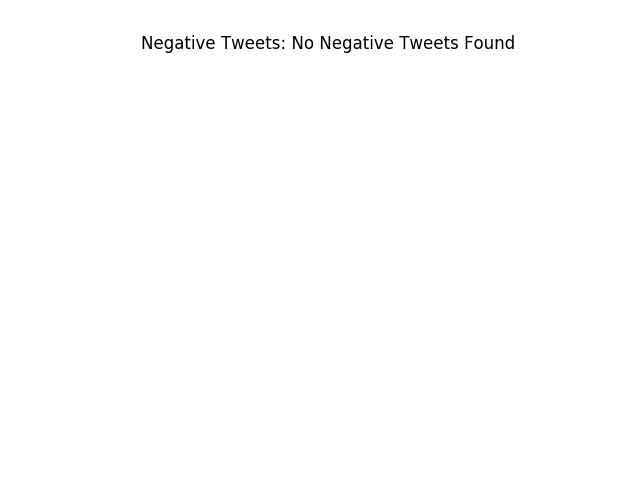
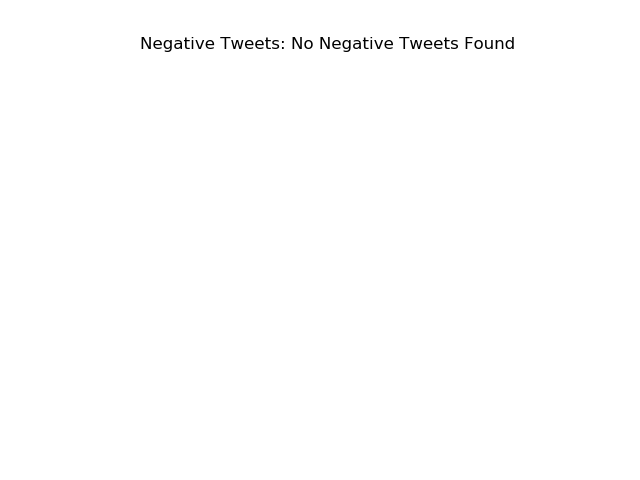
Transfer GT_Website branch to here. comment wordcount line

Changed region(s): [[0.2188, 0.0625, 0.75, 0.125], [0.7812, 0.0625, 0.8125, 0.0938]]

diff --git a/templates/render_Data.html b/templates/render_Data.html
@@ -9,10 +9,30 @@
   <script src="https://maxcdn.bootstrapcdn.com/bootstrap/3.3.7/js/bootstrap.min.js"></script>
   <link rel="stylesheet" type="text/css" href="healthmsgu.css">
   <link rel="stylesheet" href="https://www.w3schools.com/w3css/4/w3.css">
-  
+  <style>
+  #myBtn {
+  display: none;
+  position: fixed;
+  bottom: 20px;
+  right: 30px;
+  z-index: 99;
+  font-size: 18px;
+  border: none;
+  outline: none;
+  background-color: purple;
+  color: yellow;
+  cursor: pointer;
+  padding: 15px;
+  border-radius: 4px;
+    }
+  #myBtn:hover {
+  background-color: #555;
+    }
+  </style>
   
 </head>
 <body>
+<button onclick="topFunction()" id="myBtn" title="Go to top">Top</button>
 <nav class="navbar navbar-inverse navbar-fixed-top" >
   <div class="container container-fluid">
     <div class="navbar-header">
@@ -31,10 +51,11 @@
         <a class="dropdown-toggle" data-toggle="dropdown" href="#">Results
         <span class="caret"></span></a>
         <ul class="dropdown-menu">
-          <li class="disabled"><a href="#Results">Top 5 Tweets</a></li>
-          <li class="disabled"><a href="#wordcloud">Word Cloud</a></li>
-          <li class="disabled"><a href="#wordfreq">Word Frequency Table</a></li>
-          <li class="disabled"><a href="#Map">Map</a></li>
+          <li><a href="#wordcloud">Word Cloud</a></li>
+          <li><a href="#fivetweet">Top 5 Recent Tweets</a></li>
+          <li><a href="#PieChart">Pie Chart</a></li>
+          <li><a href="#Map">Map</a></li>
+          <li><a href="#TimeZone">Time Zone</a></li>
         </ul>
       </li>
           <li><a href="{{ url_for('AboutProject') }}">About</a></li>
@@ -53,10 +74,11 @@
   <div class = "row" style = "padding:40px 15px;">
     <div class = "col-md-2"></div>
     <div class = "col-md-8"> 
+    <div class="page-header"><h1 id= "wordcloud"><b>Word Cloud</h1><b></div>
       <img src= {{'static/WordCloudAll.png'}}>
       <img src= {{'static/WordCloudNeg.png'}}>
       <img src= {{'static/WordCloudPos.png'}}>
-    
+    <div class="page-header"><h1 id= "fivetweet"><b>Top Five Recent Tweets</h1><b></div>
       <h1>{{ptweet_analyses}}</h1>
         <ul>
           {% for ptweet in ptweets %}
@@ -71,12 +93,30 @@
             <li><a href={{ntweet.url}}>{{ ntweet.text }}</a></li>
           {% endfor %}
         </ul>
+    <div class="page-header"><h1 id= "PieChart"><b>Pie chart</h1><b></div>    
         <img src= {{'static/ah.png'}}>
-
+    <div class="page-header"><h1 id= "Map"><b>Map</h1><b></div>
         <img src= {{'static/basemap.png'}}>
+    <div class="page-header"><h1 id= "TimeZone"><b>Time Zone</h1><b></div>    
         <img src= {{'static/barchart.png'}}>
     </div>
 </div>
 </div>
+<script>
+//When the user scrolls down 20px from the top of the document, show the button
+window.onscroll = function() {scrollFunction()};
+function scrollFunction() {
+   if (document.body.scrollTop > 20 || document.documentElement.scrollTop > 20) {
+        document.getElementById("myBtn").style.display = "block";
+    } else {
+        document.getElementById("myBtn").style.display = "none";
+    }
+}
+// When the user clicks on the button, scroll to the top of the document
+function topFunction() {
+    document.body.scrollTop = 0;
+    document.documentElement.scrollTop = 0;
+}
+</script>
 </body>
 </html>

diff --git a/templates/ContactUsNew.html b/templates/ContactUsNew.html
@@ -10,19 +10,15 @@
   <link rel="stylesheet" type="text/css" href="healthmsgu.css">
   <link rel="stylesheet" href="https://www.w3schools.com/w3css/4/w3.css">
 <style>
-
-
 div.pic{
     width:200px;
 	height:200px;
 	margin: 70px;
 	display: inline-block;
 }
-
 div.info{
     text-align: left;
 }
-
 div.mentor{
     text-align: left;
     float:left
@@ -30,7 +26,6 @@ div.mentor{
 div.infom{
     text-align: left;
 }
-
 div.bigdiv{
     .row;
 	text-align:center;
@@ -38,9 +33,6 @@ div.bigdiv{
 	width:1200px;
     height:1000px;
 }
-
-
-
 </style>
 </head>
 <body>
@@ -61,15 +53,9 @@ div.bigdiv{
         <li class="dropdown">
         <a class="dropdown-toggle" data-toggle="dropdown" href="#">Results
         <span class="caret"></span></a>
-        <ul class="dropdown-menu">
-          <li class="disabled"><a href="#Results">Top 5 Tweets</a></li>
-          <li class="disabled"><a href="#wordcloud">Word Cloud</a></li>
-          <li class="disabled"><a href="#wordfreq">Word Frequency Table</a></li>
-          <li class="disabled"><a href="#Map">Map</a></li>
-        </ul>
       </li>
           <li><a href="{{ url_for('AboutProject') }}">About</a></li>
-          <li class="active"><a href="{{ url_for('ContactUs') }}">Contact Us</a></li>
+          <li class= "active"><a href="{{ url_for('ContactUs') }}">Contact Us</a></li>
         </ul>
     </div>
   </div>
@@ -86,8 +72,6 @@ div.bigdiv{
             <h4><b>Emily Fryer<b></h4>
             <p> Major: Ecology<br>
             efryer@mail.sfsu.edu <br>
-            Front End: Index Page & <br>
-            Back End: Retrieving/Displaying Data<br>
             <a href="https://github.com/efryer333">
             <img src="{{url_for('static', filename = 'Photo_ContactUs/Githublogo.png') }}"></a></p>
         </div>
@@ -99,8 +83,6 @@ div.bigdiv{
             <h4><b>Nicole Rodrigues<b></h4>
             <p> Major: Cell & Molecular<br>
             nic0le@mail.sfsu.edu<br>
-            Front End: About Us Page & <br>
-            Back End: Retrieving Data<br>
             <a href="https://github.com/N-Rodrigues">
             <img src="{{url_for('static', filename = 'Photo_ContactUs/Githublogo.png') }}"></a>
             <a href= "https://www.linkedin.com/in/nicole-rodrigues-6b35a0152/">
@@ -115,8 +97,6 @@ div.bigdiv{
             <h4><b>Gabriella Tenorio<b></h4>
             <p> Major: Microbiology<br>
             gtenorio@mail.sfsu.edu<br>
-            Front End: Result Page, Logo & <br>
-            Contact Us <br>
             <a href="https://github.com/gtenorio10">
             <img src= "{{url_for('static', filename = 'Photo_ContactUs/Githublogo.png') }}"></a>
             <a href="https://www.linkedin.com/in/gabriella-tenorio-2a159a152">

diff --git a/templates/about_project.html b/templates/about_project.html
@@ -33,12 +33,6 @@
         <li class="dropdown">
         <a class="dropdown-toggle" data-toggle="dropdown" href="#">Results
         <span class="caret"></span></a>
-        <ul class="dropdown-menu">
-          <li class="disabled"><a href="#Results">Top 5 Tweets</a></li>
-          <li class="disabled"><a href="#wordcloud">Word Cloud</a></li>
-          <li class="disabled"><a href="#wordfreq">Word Frequency Table</a></li>
-          <li class="disabled"><a href="#Map">Map</a></li>
-        </ul>
       </li>
           <li class="active"><a href="{{ url_for('AboutProject') }}">About</a></li>
           <li><a href="{{ url_for('ContactUs') }}">Contact Us</a></li>
@@ -98,9 +92,7 @@
 <!--
 <br>
 <div class="footer" color="blue"><h3 style="color: black">
-
     <p style="text-align:center;"> <a href="{{ url_for('index') }}">Health Msg U</a></p>
-
 </h3></div>-->
 
 

diff --git a/templates/index.html b/templates/index.html
@@ -29,12 +29,6 @@
         <li class="dropdown">
         <a class="dropdown-toggle" data-toggle="dropdown" href="#">Results
         <span class="caret"></span></a>
-        <ul class="dropdown-menu">
-          <li class="disabled"><a href="#Results">Top 5 Tweets</a></li>
-          <li class="disabled"><a href="#wordcloud">Word Cloud</a></li>
-          <li class="disabled"><a href="#wordfreq">Word Frequency Table</a></li>
-          <li class="disabled"><a href="#Map">Map</a></li>
-        </ul>
       </li>
           <li><a href="{{ url_for('AboutProject') }}">About</a></li>
           <li><a href="{{ url_for('ContactUs') }}">Contact Us</a></li>
@@ -89,3 +83,4 @@
 </body>
 </div>
 </html>
+  

diff --git a/map_bar.py b/map_bar.py
@@ -108,8 +108,8 @@ def data_vis(tweets, ptweets, ntweets, term):
     if len(alltweets) > 1:
         wordcloud = WordCloud(max_words=500, background_color="white", stopwords=stopwords, collocations=False,
                           relative_scaling=0.5).generate(strOfAllTweet)
-        print(WordCounts)
-        plt.title('All Tweets')
+        #print(WordCounts)
+        plt.title('All Tweets', fontsize=20)
         plt.imshow(wordcloud, interpolation='bilinear')
         plt.axis("off")
         plt.savefig('static/WordCloudAll.png')
@@ -124,7 +124,7 @@ def data_vis(tweets, ptweets, ntweets, term):
     elif len(ptweets) > 1:
         wordcloud = WordCloud(max_words=500, background_color="white", stopwords=stopwords, collocations=False,
                           relative_scaling=0.5).generate(strOfPosTweet)
-        plt.title('Positive Tweets')
+        plt.title('Positive Tweets', fontsize=20)
         plt.imshow(wordcloud, interpolation='bilinear')
         plt.axis("off")
         plt.savefig('static/WordCloudPos.png')
@@ -138,7 +138,7 @@ def data_vis(tweets, ptweets, ntweets, term):
     if len(ntweets) > 1:
         wordcloud = WordCloud(max_words=500, background_color="white", stopwords=stopwords, collocations=False,
                           relative_scaling=0.5).generate(strOfNegTweet)
-        plt.title('Negative Tweets')
+        plt.title('Negative Tweets', fontsize=20)
         plt.imshow(wordcloud, interpolation='bilinear')
         plt.axis("off")
         plt.savefig('static/WordCloudNeg.png')
@@ -152,7 +152,7 @@ def data_vis(tweets, ptweets, ntweets, term):
     elif len(neutweets) > 1:
         wordcloud = WordCloud(max_words=500, background_color="white", stopwords=stopwords, collocations=False,
                           relative_scaling=0.5).generate(strOfNeuTweet)
-        plt.title('Neutral Tweets')
+        plt.title('Neutral Tweets', fontsize=20)
         plt.imshow(wordcloud, interpolation='bilinear')
         plt.axis("off")
         plt.savefig('static/WordCloudNeu.png')
@@ -526,8 +526,8 @@ def data_vis(tweets, ptweets, ntweets, term):
     m.plot(x,y, 'ko')
     #m.plot(x,y, 'ko')
 
-    ax.set_title('Time Zone for all tweets in the United States for the result:' + " " + term)
+    ax.set_title('Time Zone for all tweets in the United States for the result:' + " " + term, fontsize=14)
     #plt.show()
-    fig.set_size_inches(18.5, 10.5, forward=True)
+    fig.set_size_inches(8, 8, forward=True)
     Map = fig.savefig('static/basemap.png', dpi=100)
     plt.close()
